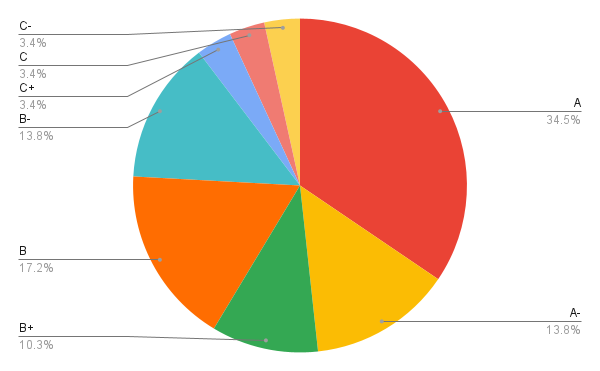
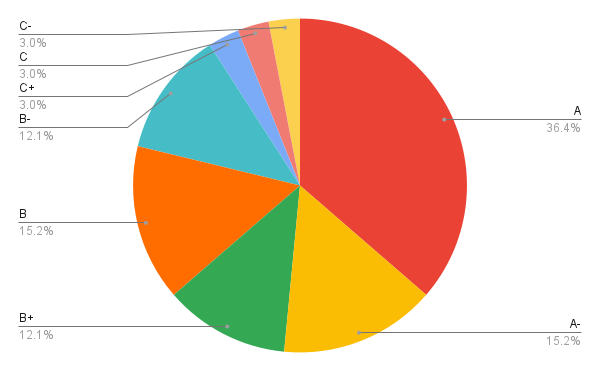
commit 5/19/2023

diff --git a/index.html b/index.html
@@ -395,22 +395,22 @@
               <tr>
                 <td>CS 440</td>
                 <td>Operating Systems</td>
-                <td>In Progress</td>
+                <td>A-</td>
               </tr>
               <tr>
                 <td>CS 489</td>
                 <td>Research in Computer Science</td>
-                <td>In Progress</td>
+                <td>A</td>
               </tr>
               <tr>
                 <td>CS 201</td>
                 <td>Intro to 3D Modeling/Printing</td>
-                <td>In Progress</td>
+                <td>A</td>
               </tr>
               <tr>
                 <td>COMM 221</td>
                 <td>Understanding Film</td>
-                <td>In Progress</td>
+                <td>B+</td>
               </tr>
             </tbody>
           </table>
